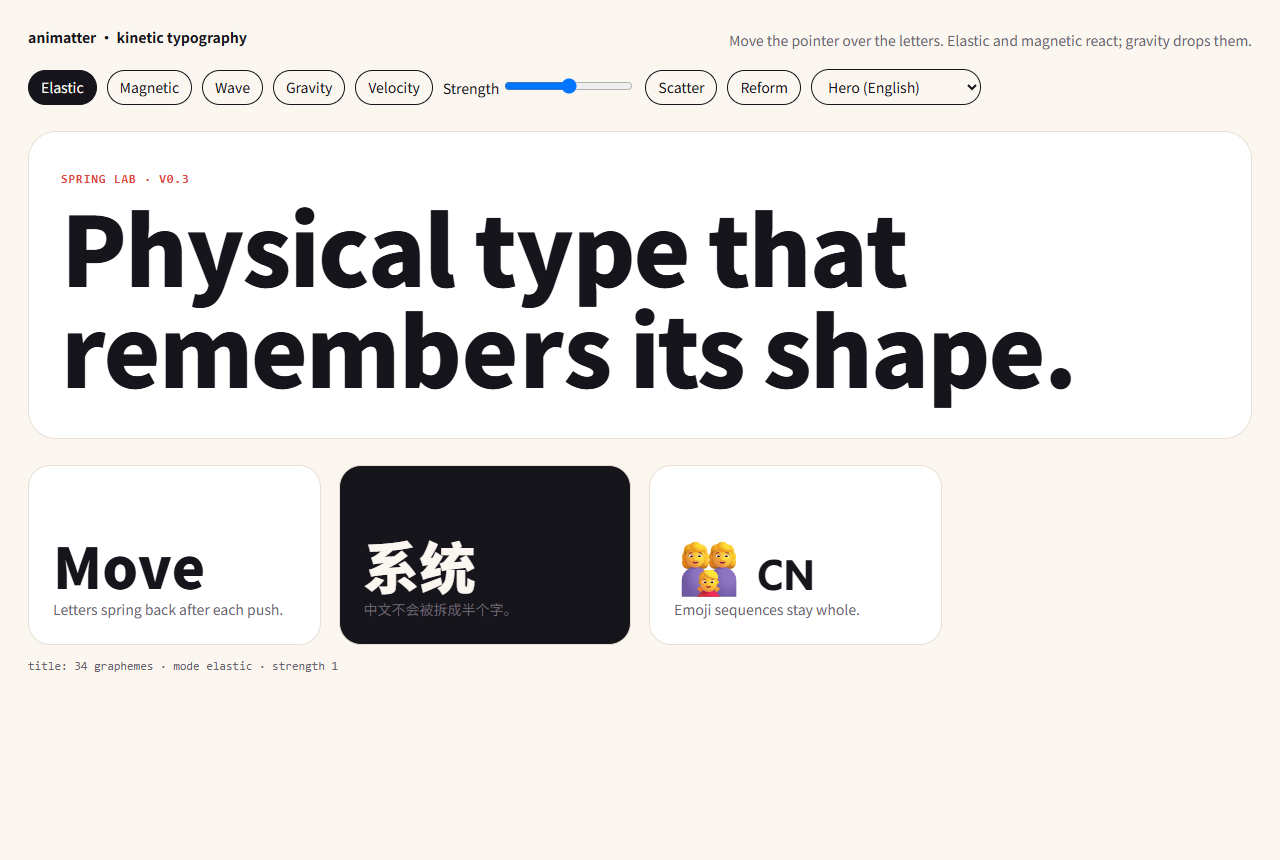
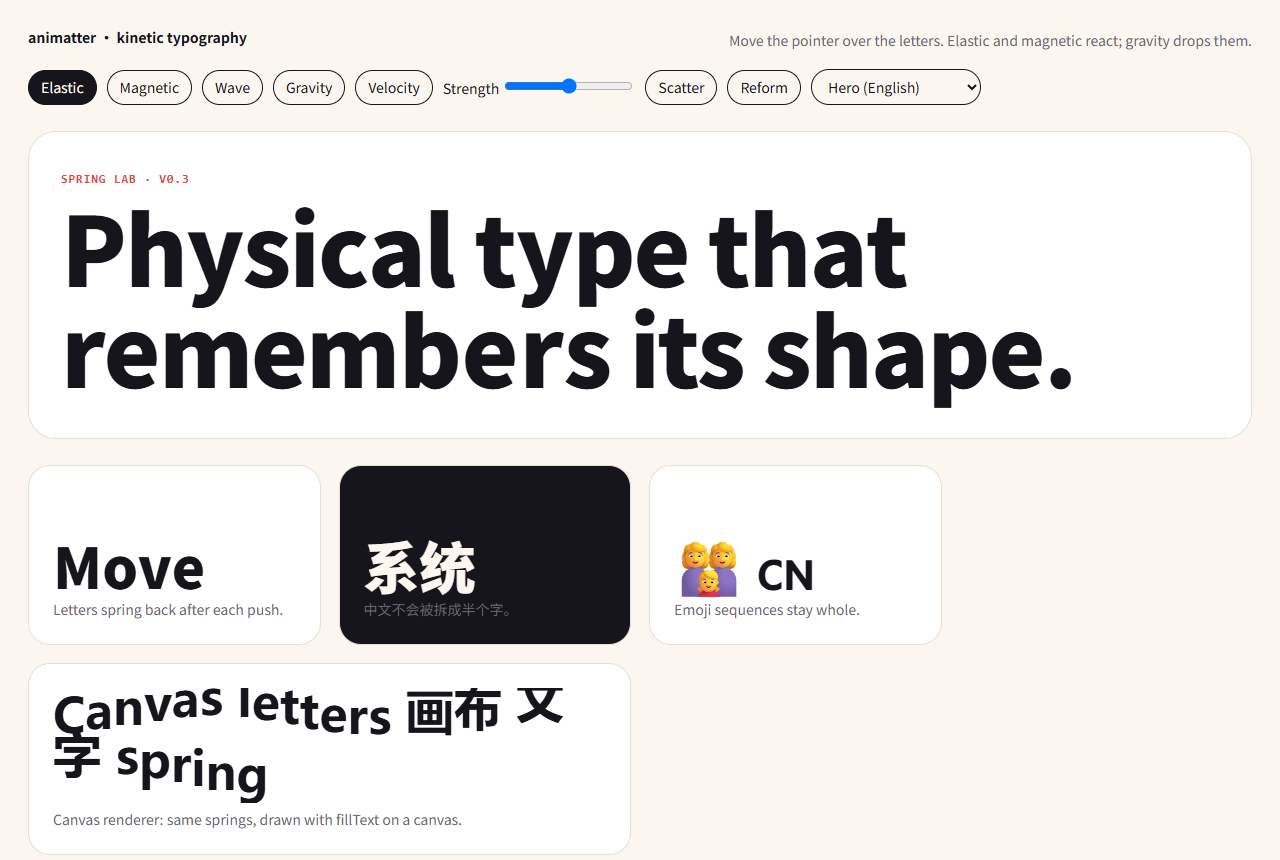
v0.3: kinetic text Canvas renderer (fillText, greedy wrap, same modes) with demo poster and browser checks

Changed region(s): [[0.0312, 0.7558, 0.4375, 0.9674]]

diff --git a/packages/core/src/typography/canvas.ts b/packages/core/src/typography/canvas.ts
@@ -1,0 +1,304 @@
+import type { AnimatterWorld, WorldSystem } from "../world.js";
+import { segmentText } from "./segment.js";
+import type { KineticMode } from "./kinetic.js";
+
+/**
+ * Canvas kinetic text. Same semantics as the DOM controller (elastic, magnetic, wave, gravity,
+ * velocity; scatter and reform), but glyphs are drawn with fillText on a canvas. Layout is greedy
+ * word wrap with measureText, so the canvas can wrap as the DOM does. The original text stays in a
+ * visually hidden node for assistive technology. The canvas itself is aria-hidden.
+ */
+export interface CanvasKineticOptions {
+  mode?: KineticMode;
+  strength?: number;
+  /** Maximum glyph count before the controller refuses to build. Default 400. */
+  maxGlyphs?: number;
+  color?: string;
+}
+
+export interface CanvasKineticHandle {
+  readonly canvas: HTMLCanvasElement;
+  /** Every grapheme laid out, including spaces (spaces occupy a slot but draw nothing). */
+  glyphCount(): number;
+  lineCount(): number;
+  setText(text: string): void;
+  setMode(mode: KineticMode): void;
+  scatter(): void;
+  reform(): void;
+  remeasure(): void;
+  destroy(): void;
+}
+
+interface Glyph {
+  ch: string;
+  homeX: number;
+  homeY: number;
+  x: number;
+  y: number;
+  vx: number;
+  vy: number;
+  skew: number;
+}
+
+const MODES: readonly KineticMode[] = ["elastic", "magnetic", "wave", "gravity", "velocity"];
+const GRAVITY = 900;
+let canvasKineticSerial = 0;
+
+/** Greedy word wrap over graphemes. Returns glyph homes relative to the host content box. */
+export function layoutGlyphs(
+  parts: readonly string[],
+  measure: (s: string) => number,
+  maxWidth: number,
+  lineHeight: number,
+): { glyphs: Array<{ ch: string; x: number; y: number }>; lines: number; height: number } {
+  const glyphs: Array<{ ch: string; x: number; y: number }> = [];
+  let line = 0;
+  let x = 0;
+  // Group non-space graphemes into words so a word never breaks mid-word; Han/emoji break freely.
+  const words: string[][] = [];
+  let current: string[] | null = null;
+  for (const part of parts) {
+    if (part === "\n") {
+      words.push(["\n"]);
+      current = null;
+      continue;
+    }
+    if (/^\s$/u.test(part)) {
+      words.push([part]);
+      current = null;
+      continue;
+    }
+    if (!current) {
+      current = [];
+      words.push(current);
+    }
+    current.push(part);
+    if (/^\p{Script=Han}|^\p{Extended_Pictographic}/u.test(part)) current = null;
+  }
+  for (const word of words) {
+    if (word.length === 1 && word[0] === "\n") {
+      line++;
+      x = 0;
+      continue;
+    }
+    const width = word.reduce((sum, g) => sum + measure(g), 0);
+    if (x > 0 && x + width > maxWidth && word[0] !== " ") {
+      line++;
+      x = 0;
+    }
+    if (word.length === 1 && word[0] === " ") {
+      if (x === 0) continue; // no leading space on a line
+      x += measure(" ");
+      glyphs.push({ ch: " ", x: x - measure(" "), y: line * lineHeight });
+      continue;
+    }
+    for (const g of word) {
+      const w = measure(g);
+      glyphs.push({ ch: g, x, y: line * lineHeight });
+      x += w;
+    }
+  }
+  return { glyphs, lines: line + 1, height: (line + 1) * lineHeight };
+}
+
+export function createCanvasKinetic(
+  world: AnimatterWorld,
+  host: HTMLElement,
+  text: string,
+  options: CanvasKineticOptions = {},
+): CanvasKineticHandle {
+  const mode0 = options.mode ?? "elastic";
+  if (!MODES.includes(mode0)) throw new RangeError(`Unknown kinetic mode: ${mode0}`);
+  const strength = options.strength ?? 1;
+  if (!Number.isFinite(strength) || strength < 0 || strength > 2) throw new RangeError("strength must be in [0, 2]");
+  const maxGlyphs = options.maxGlyphs ?? 400;
+  const name = `canvas-kinetic#${++canvasKineticSerial}`;
+  let mode = mode0;
+  let destroyed = false;
+  let glyphs: Glyph[] = [];
+  let content = text;
+  let fontSpec = "";
+  let fontSize = 16;
+  let lineHeight = 20;
+  let width = 1;
+  let height = 1;
+  let scatterPending = false;
+  let reformRemaining = 0;
+  let reforming = false;
+
+  const canvas = document.createElement("canvas");
+  canvas.setAttribute("aria-hidden", "true");
+  Object.assign(canvas.style, { display: "block", maxWidth: "100%" });
+  const sr = document.createElement("span");
+  Object.assign(sr.style, {
+    position: "absolute",
+    width: "1px",
+    height: "1px",
+    overflow: "hidden",
+    clip: "rect(0 0 0 0)",
+    whiteSpace: "nowrap",
+  });
+  const originalHtml = host.innerHTML;
+  host.innerHTML = "";
+  host.append(sr, canvas);
+  if (getComputedStyle(host).position === "static") host.style.position = "relative";
+  const ctx = canvas.getContext("2d");
+  if (!ctx) throw new Error("Canvas 2D is not available");
+  const color = options.color ?? getComputedStyle(host).color;
+
+  const readFont = () => {
+    const cs = getComputedStyle(host);
+    fontSize = parseFloat(cs.fontSize) || 16;
+    lineHeight = fontSize * 1.2;
+    fontSpec = `${cs.fontStyle} ${cs.fontWeight} ${fontSize}px ${cs.fontFamily}`;
+    ctx.font = fontSpec;
+  };
+
+  const layout = () => {
+    readFont();
+    const dpr = Math.min(window.devicePixelRatio || 1, 2);
+    const maxWidth = Math.max(10, host.clientWidth || 300);
+    const parts = segmentText(content);
+    if (parts.length > maxGlyphs) {
+      glyphs = [];
+      width = maxWidth;
+      height = 0;
+      canvas.width = 0;
+      canvas.height = 0;
+      canvas.style.height = "0";
+      return;
+    }
+    ctx.font = fontSpec;
+    const result = layoutGlyphs(parts, (s) => ctx.measureText(s).width, maxWidth, lineHeight);
+    width = maxWidth;
+    height = Math.max(lineHeight, result.height);
+    canvas.style.width = `${width}px`;
+    canvas.style.height = `${height}px`;
+    canvas.width = Math.round(width * dpr);
+    canvas.height = Math.round(height * dpr);
+    ctx.setTransform(dpr, 0, 0, dpr, 0, 0);
+    const previous = glyphs;
+    glyphs = result.glyphs.map((g, i) => ({
+      ch: g.ch,
+      homeX: g.x,
+      homeY: g.y,
+      // Keep displacement across a relayout, so a resize does not jump letters.
+      x: previous[i]?.x ?? 0,
+      y: previous[i]?.y ?? 0,
+      vx: previous[i]?.vx ?? 0,
+      vy: previous[i]?.vy ?? 0,
+      skew: 0,
+    }));
+    sr.textContent = content;
+  };
+
+  const system: WorldSystem = {
+    name,
+    fixedStep(dt: number) {
+      if (destroyed || !glyphs.length || world.stats().reducedMotion) return;
+      const h = Math.min(dt, 1 / 30);
+      if (scatterPending) {
+        scatterPending = false;
+        for (const g of glyphs) {
+          g.vx += (Math.random() - 0.5) * 900 * strength;
+          g.vy += -Math.random() * 600 * strength;
+        }
+      }
+      if (reformRemaining > 0) reformRemaining = Math.max(0, reformRemaining - h);
+      if (reformRemaining === 0) reforming = false;
+      let k = 180 * strength;
+      let c = 14;
+      if (reforming) {
+        k *= 2;
+        c *= 1.5;
+      }
+      for (const g of glyphs) {
+        let ay = -k * g.y - c * g.vy;
+        const ax = -k * g.x - c * g.vx;
+        if (mode === "gravity" && !reforming) ay += GRAVITY * strength;
+        g.vx += ax * h;
+        g.vy += ay * h;
+        g.x += g.vx * h;
+        g.y += g.vy * h;
+        if (mode === "gravity") {
+          const limit = height - lineHeight * 0.5 - g.homeY;
+          if (g.y > limit) {
+            g.y = limit;
+            g.vy = -Math.abs(g.vy) * 0.35;
+          }
+        }
+        if (!Number.isFinite(g.x) || !Number.isFinite(g.y)) {
+          g.x = 0;
+          g.y = 0;
+          g.vx = 0;
+          g.vy = 0;
+        }
+        g.skew = mode === "velocity" ? Math.max(-0.4, Math.min(0.4, g.vx * 0.002 * strength)) : 0;
+      }
+    },
+    frame() {
+      if (destroyed || !glyphs.length || !ctx) return;
+      const reduced = world.stats().reducedMotion;
+      const now = performance.now() / 1000;
+      ctx.clearRect(0, 0, width, height);
+      ctx.font = fontSpec;
+      ctx.fillStyle = color;
+      ctx.textBaseline = "top";
+      for (let i = 0; i < glyphs.length; i++) {
+        const g = glyphs[i]!;
+        const wave = mode === "wave" && !reduced ? Math.sin(now * 3 + i * 0.45) * 10 * strength : 0;
+        const x = reduced ? 0 : g.x;
+        const y = reduced ? 0 : g.y + wave;
+        ctx.save();
+        ctx.translate(g.homeX + x, g.homeY + y);
+        if (g.skew) ctx.transform(1, 0, Math.tan(g.skew), 1, 0, 0);
+        ctx.fillText(g.ch, 0, 0);
+        ctx.restore();
+      }
+    },
+    destroy() {
+      glyphs = [];
+    },
+  };
+  const detach = world.attach(system);
+  layout();
+
+  const observer = typeof ResizeObserver !== "undefined" ? new ResizeObserver(() => layout()) : null;
+  observer?.observe(host);
+
+  return {
+    canvas,
+    glyphCount: () => glyphs.length,
+    lineCount: () => (glyphs.length ? Math.round(height / lineHeight) : 0),
+    setText(next) {
+      if (destroyed) throw new Error("Canvas kinetic text has been destroyed");
+      content = next;
+      layout();
+    },
+    setMode(next) {
+      if (!MODES.includes(next)) throw new RangeError(`Unknown kinetic mode: ${next}`);
+      mode = next;
+    },
+    scatter() {
+      scatterPending = true;
+      reforming = false;
+      reformRemaining = 0;
+    },
+    reform() {
+      reforming = true;
+      reformRemaining = 0.9;
+    },
+    remeasure() {
+      layout();
+    },
+    destroy() {
+      if (destroyed) return;
+      destroyed = true;
+      observer?.disconnect();
+      detach();
+      canvas.remove();
+      sr.remove();
+      host.innerHTML = originalHtml;
+    },
+  };
+}

diff --git a/demos/kinetic-type/index.html b/demos/kinetic-type/index.html
@@ -170,10 +170,14 @@
       <div class="poster"><div class="big" id="poster-c">👩👩👧 🇨🇳</div><p class="hint">Emoji sequences stay whole.</p></div>
     </section>
 
+    <section class="poster-grid" aria-label="Canvas kinetic text">
+      <div class="poster" id="canvas-poster" style="grid-column: span 2"><div id="canvas-host" style="font: 800 48px system-ui, sans-serif"></div><p class="hint">Canvas renderer: same springs, drawn with fillText on a canvas.</p></div>
+    </section>
+
     <p class="status" id="status" role="status">starting…</p>
 
     <script type="module">
-      import { createWorld, createKineticText } from "/packages/core/dist/animatter.js";
+      import { createWorld, createKineticText, createCanvasKinetic } from "/packages/core/dist/animatter.js";
 
       const samples = {
         hero: "Physical type that remembers its shape.",
@@ -228,8 +232,12 @@
       });
       window.addEventListener("resize", () => handles.forEach((h) => h.remeasure()));
 
+      const canvasHost = document.querySelector("#canvas-host");
+      canvasHost.textContent = "Canvas letters 画布 文字 spring";
+      const canvasText = createCanvasKinetic(world, canvasHost, "Canvas letters 画布 文字 spring", { mode: "wave", strength: 1 });
+
       refreshStatus();
-      window.__kinetic = { world, handles, targets };
+      window.__kinetic = { world, handles, targets, canvasText };
       window.ready = true;
     </script>
   </body>

diff --git a/packages/core/src/index.ts b/packages/core/src/index.ts
@@ -94,3 +94,5 @@ export type {
   BehaviourContext,
   ActorBehaviourHandle,
 } from "./actor/behaviours.js";
+export { createCanvasKinetic, layoutGlyphs } from "./typography/canvas.js";
+export type { CanvasKineticHandle, CanvasKineticOptions } from "./typography/canvas.js";

diff --git a/CHANGELOG.md b/CHANGELOG.md
@@ -13,6 +13,7 @@ No additional package version has been published after 0.1.0. Documentation upda
 - `createLiquidDock(world, container, options)`: proximity magnification, spring settle, pointer drag reorder, Alt+Arrow keyboard reorder, horizontal and vertical layout, `onReorder` callback. The dock owns `transform` of its items and `touch-action` of its container.
 - `createKineticText(world, element, options)`: grapheme-cluster letters (`Intl.Segmenter`), elastic / magnetic / wave / gravity / velocity modes, `scatter()`, `reform()`, `setText()`, `setMode()`, `remeasure()`, `destroy()`. Words are kept on one line; text over 160 graphemes falls back to plain text.
 - `parseScene` / `serializeScene`: versioned (`schemaVersion: 1`) JSON-only scene schema with path-based errors. Used by Animatter Lab.
+- Kinetic text Canvas renderer: `createCanvasKinetic(world, host, text, options)` draws the same modes with `fillText`, greedy word wrap via `measureText`, and a 400-glyph limit. Original text kept in a visually hidden node. Surfaces the same spring semantics; the DOM controller remains the default.
 - Liquid connector: `createLiquidDock(..., { connector: true })` draws a metaball layer behind the items so neighbours look joined. Visual only.
 - Demos: `demos/lab`, `demos/liquid-dock`, `demos/kinetic-type`.
 - Scripts: `npm run test:modules` (browser checks for dock, typography and Lab), shared Chromium launcher in `scripts/browser-utils.mjs` (`CHROME_PATH` override), dev server maps `/favicon.ico` to the brand favicon.

diff --git a/docs/PRESETS.md b/docs/PRESETS.md
@@ -123,4 +123,4 @@ const text = createKineticText(world, heroTitle, { mode: "elastic", strength: 0.
 text.setText("New title"); text.setMode("wave"); text.scatter(); text.reform(); text.remeasure(); text.destroy();
 ```
 
-The DOM letter renderer is the default. `renderer: "canvas"` draws the same text on a canvas (see the Kinetic section of CHANGELOG.md when that renderer ships).
+The DOM letter renderer is the default. use `createCanvasKinetic(world, host, text, options)` for the canvas renderer (fillText, same modes, 400-glyph limit). The DOM controller stays the default.
